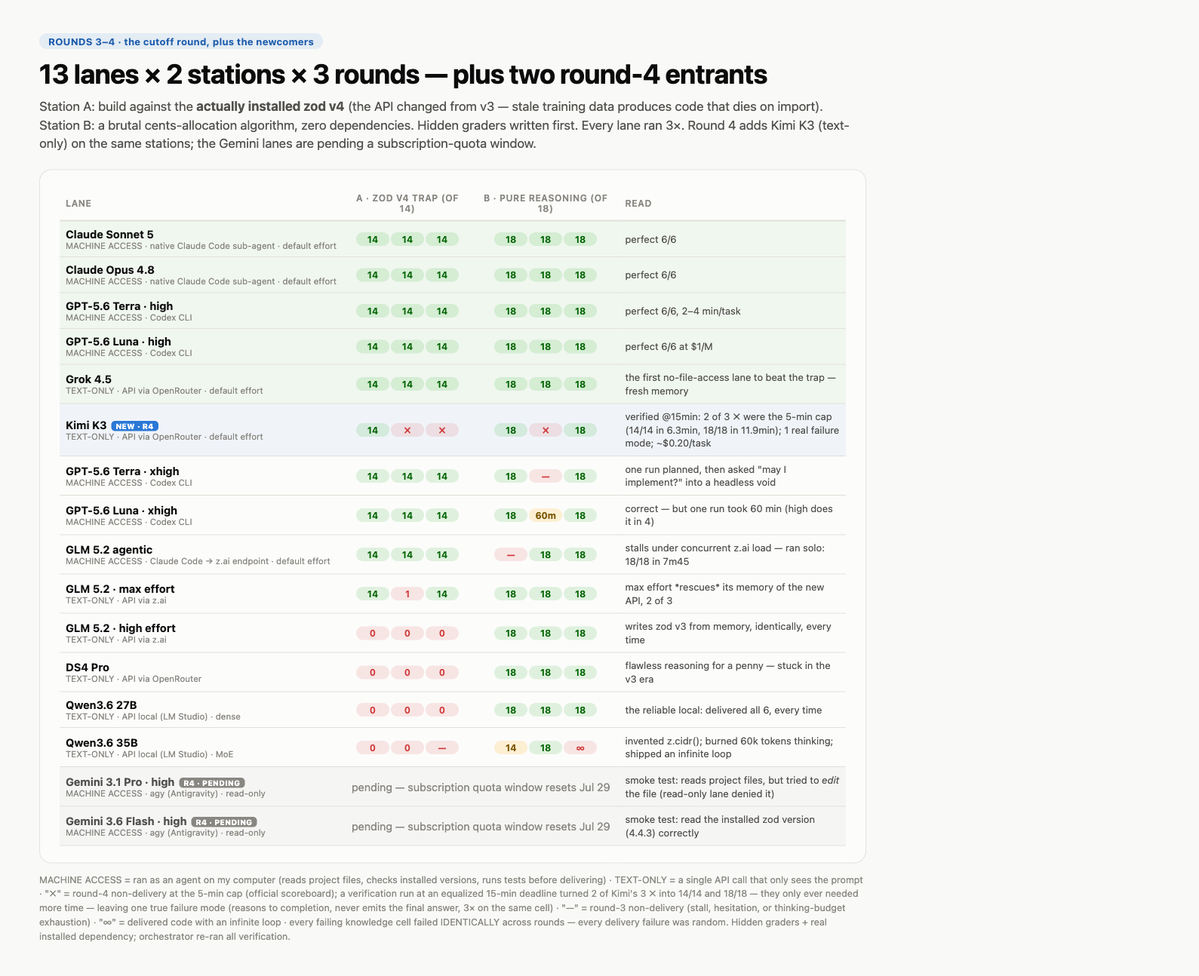
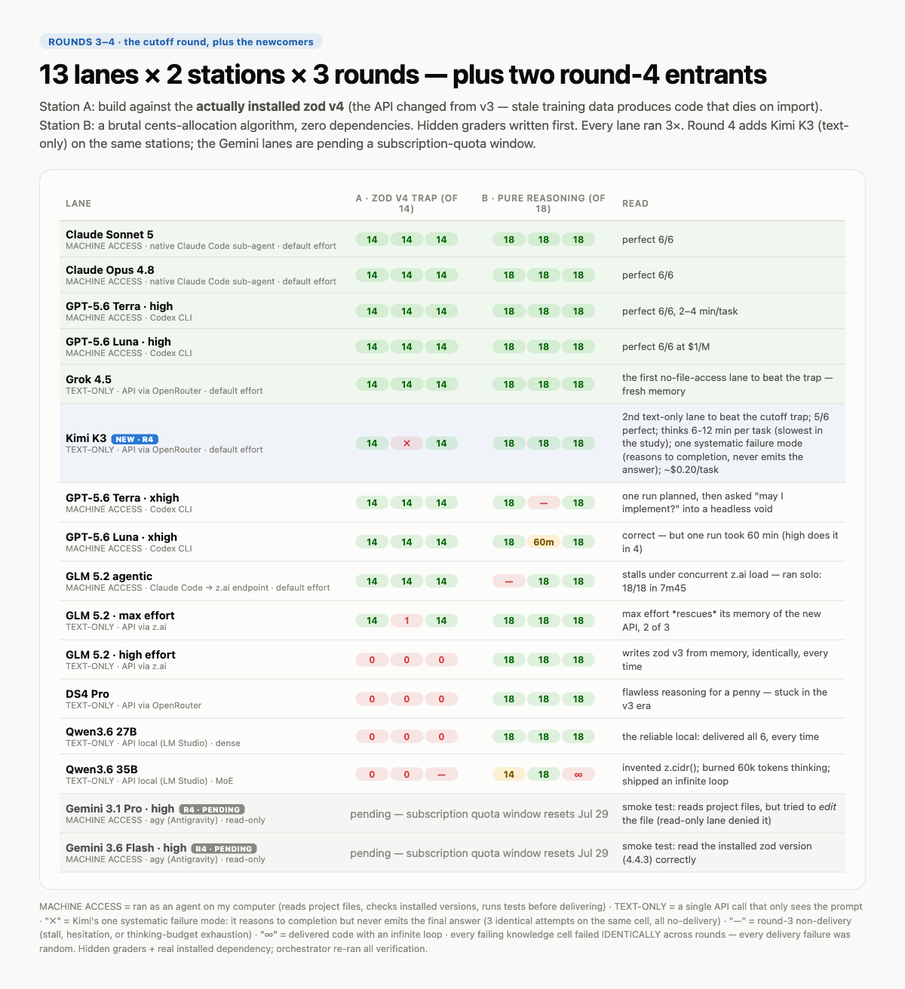
Round 4 consolidated scoreboard: Kimi 5/6 perfect, real durations
Final Kimi line: A 14·✗·14, B 18·18·18 (6-12 min per task, ~US$0.20).
The remaining ✗ is the model's own failure mode (reasons to completion,
never emits the answer — 3 identical attempts). Leaner 0.4.1 changelog;
images recaptured.

diff --git a/benchmark/relatorio-decisao.html b/benchmark/relatorio-decisao.html
@@ -95,7 +95,7 @@ summary{cursor:pointer;font-weight:600;font-size:15px;color:var(--ink)}
 <h2>O banco de reservas (baratos e úteis no papel certo)</h2>
 <ul>
 <li><strong>Grok 4.5</strong> (texto, via OpenRouter): a exceção que impressiona — único sem mãos a gabaritar tudo, incluindo a armadilha de conhecimento atual. Use pra tarefas fora do repo com bibliotecas modernas quando não quiser gastar uma raia com mãos. ~US$ 0,04/tarefa.</li>
-<li><strong>Kimi K3</strong> (texto, via OpenRouter) <span style="display:inline-block;background:rgba(42,120,214,0.12);color:var(--blue-strong);font-size:11px;font-weight:700;padding:1px 8px;border-radius:999px;vertical-align:middle">novo · rodada 4 parcial</span>: o <strong>2º texto-puro</strong> a vencer a armadilha do zod v4 (14/14 de memória), ao lado do Grok. <strong>Bom pra:</strong> texto com biblioteca moderna quando o Grok não estiver à mão. <strong>Ressalvas:</strong> com o prazo justo (15 min, igualado à z.ai — já é o padrão agora), entrega <strong>5 de 6</strong> — o placar de "3 de 6" era teto de 5 min curto demais. Sobra <strong>1 tique sistemático</strong>: numa célula ele fecha o raciocínio e não emite a resposta (reapareceu 3× igual, prazo não resolve). E é caro: ~US$ 0,20/tarefa entregue, ~5× o Grok. Prefira o Grok como primeira opção.</li>
+<li><strong>Kimi K3</strong> (texto, via OpenRouter) <span style="display:inline-block;background:rgba(42,120,214,0.12);color:var(--blue-strong);font-size:11px;font-weight:700;padding:1px 8px;border-radius:999px;vertical-align:middle">novo · rodada 4 parcial</span>: o <strong>2º texto-puro</strong> a vencer a armadilha do zod v4 (14/14 de memória), ao lado do Grok. <strong>Bom pra:</strong> texto com biblioteca moderna quando o Grok não estiver à mão. <strong>Ressalvas:</strong> entrega <strong>5 de 6 gabaritado</strong>, mas é o <strong>mais lento do estudo</strong> (6–12 min por tarefa nas provas pesadas). Sobra <strong>1 tique sistemático</strong>: numa célula ele fecha o raciocínio e não emite a resposta (3× idêntico). E é caro: ~US$ 0,20/tarefa entregue, ~5× o Grok. Prefira o Grok como primeira opção.</li>
 <li><strong>DS4 Pro/Flash</strong> (texto): imbatível em custo pra algoritmo puro bem especificado (1 centavo). <strong>Nunca</strong> com bibliotecas recentes — escreve o mundo antigo com confiança.</li>
 <li><strong>Qwen 27B no Celta</strong> (local, grátis): o local confiável — entregou 6/6. Tarefas de uma peça, sem bibliotecas atuais, sempre verificado. (O 35B é 3× mais rápido, porém errático: pensamento sem fim e até loop infinito.)</li>
 </ul>

diff --git a/benchmark/rodada4-raias-novas/STATUS.md b/benchmark/rodada4-raias-novas/STATUS.md
@@ -1,40 +1,40 @@
-# Rodada 4 — status: PARCIAL (kimi-k3 rodada; gemini adiado)
+# Rodada 4 — status: PARCIAL (kimi-k3 concluída; gemini adiado)
 
-Data: 2026-07-22. Mesmas provas da rodada 3 (estacao-a.md / estacao-b.md,
+Data: 2026-07-23. Mesmas provas da rodada 3 (estacao-a.md / estacao-b.md,
 grade-a.mjs / grade-b.mjs). Corretores e cenário validados.
 
 ## Situação por raia
 
 | Raia | Estação | Situação |
 |---|---|---|
-| kimi-k3 | A e B | **RODADA CONCLUÍDA** em 2026-07-22 (após o Daniel liberar o modelo em openrouter.ai/settings/privacy). 3 de 6 execuções entregues; ver placar.tsv. |
-| gemini31pro-high | A e B | **ADIADO**: cota da assinatura Gemini/agy esgotada ("Individual quota reached ... Resets in 167h"). Reexecutar quando resetar, **~2026-07-29**. |
+| kimi-k3 | A e B | **CONCLUÍDA**. 5 de 6 células gabaritadas; 1 falha sistemática do modelo (A r2). |
+| gemini31pro-high | A e B | **ADIADO**: cota da assinatura Gemini/agy esgotada. Reexecutar **~2026-07-29**. |
 | gemini36flash-high | A e B | **ADIADO**: mesma cota (compartilhada com o pro) esgotada. Reexecutar **~2026-07-29**. |
 
-## Tabela-resumo (r1 · r2 · r3)
+## Placar consolidado kimi-k3 (r1 · r2 · r3)
 
 | Raia | A: zod v4 (14) | B: rateio (18) |
 |---|---|---|
-| kimi-k3 | 14 · **não entregou**¹ · **não entregou**² | 18 · **não entregou**² · 18 |
-| gemini31pro-high | (pendente ~07-29) | (pendente ~07-29) |
-| gemini36flash-high | (pendente ~07-29) | (pendente ~07-29) |
+| kimi-k3 | 14 · **✗** · 14 | 18 · 18 · 18 |
 
-¹ A r2: o modelo devolveu só o raciocínio interno, sem resposta final (falha de MODELO — sem repescagem, por protocolo).
-² A r3 e B r2: timeout de 5min do provedor, 2 vezes cada (falha de INFRA — 1 repescagem cada, também estourou).
+`✗` = A r2: falha **sistemática** do modelo — raciocina até o fim e não emite a resposta final.
+Três tentativas idênticas, todas sem entregar (não é timeout nem azar de infra; é comportamento do modelo).
 
-## Custo / tokens kimi-k3 (só execuções entregues; OpenRouter reporta o custo direto)
+## Dados por célula entregue (OpenRouter reporta o custo direto)
 
 | Exec | nota | dur (s) | tokens saída | reasoning | custo (US$) |
 |---|---|---|---|---|---|
 | A r1 | 14/14 | 157 | 7466 | 6840 | 0,114528 |
+| A r2 | ✗ (só raciocínio) | — | — | — | — |
+| A r3 | 14/14 | 380 | 12735 | — | 0,1915 |
 | B r1 | 18/18 | 271 | 12267 | 11402 | 0,187113 |
+| B r2 | 18/18 | 716 | 24633 | — | 0,3726 |
 | B r3 | 18/18 | 165 | 7435 | 6538 | 0,111868 |
-| **Total** | | | **27168** | | **≈ 0,4135** |
+| **Total (5 entregas)** | | | | | **≈ 0,978** |
 
-Preço observado do kimi-k3 no OpenRouter: **~US$ 3 / milhão de tokens de entrada** e
-**~US$ 15 / milhão de tokens de saída** (derivado dos cost_details; a saída domina o custo por causa do raciocínio).
-As 3 execuções que falharam (A r2, A r3, B r2) também podem ter gerado custo no provedor,
-mas não há usage retornado (timeout/abort ou parse sem content), então ficam fora da soma.
+Custo por tarefa entregue: **≈ US$ 0,20**. Preço observado do kimi-k3 no OpenRouter:
+**~US$ 3 / milhão de tokens de entrada** e **~US$ 15 / milhão de tokens de saída** (a saída, dominada
+pelo raciocínio, é o que pesa). O kimi-k3 é o modelo mais lento do estudo (6–12 min nas provas pesadas).
 
 ## O que ficou validado (encanamento OK)
 
@@ -43,54 +43,22 @@ mas não há usage retornado (timeout/abort ou parse sem content), então ficam 
 - Referência A (zod v4) → grade-a.mjs **14/14**; referência B → grade-b.mjs **18/18**.
 - Runner `runner/run-one.mjs`: monta prova + apêndice de entrega, extrai bloco ```javascript,
   corrige e registra nota/duração/tokens/usage.
+- Respostas cruas entregues em `saidas/`; correções em `correcoes/`.
 
-## Incidentes observados
+## Observação: kimi-k3 na estação A só com texto
 
-- kimi-k3 entrega instável: 3 de 6 execuções morreram (1 "só raciocínio", 2 timeouts de 5min ×2).
-  Onde entregou, gabaritou (14/14 e 18/18 duas vezes) — inclusive a estação A **só com texto**,
-  sem olhos: o kimi-k3 conhece a API do zod v4 (não caiu na armadilha da data de corte).
-- gemini31pro-high (antes da cota estourar) tentou a ferramenta **Edit** na estação A e o modo
-  somente-leitura do agy negou (soft-deny, step 92) → sem resposta final. O flash só leu, na fumaça.
+O kimi-k3 gabaritou a estação A (armadilha da data de corte) **só com texto**, sem olhar os arquivos:
+conhece a API do zod v4 de memória (`z.email`, `z.ipv4`, `z.cidrv4`). É o 2º texto-puro do estudo a
+passar nessa prova, ao lado do Grok 4.5.
 
-## Reexecução de verificação (2026-07-23)
+## Observação: gemini antes da cota estourar
 
-O Daniel estranhou o kimi-k3 ter falhado 3 de 6 células ontem e pediu para re-rodar SÓ as 3
-que falharam (A r2, A r3, B r2), para saber se foi transitório ou padrão.
-
-**Mudança de prazo (decisão do Daniel, 2026-07-23):** o prazo de ontem era desigual — o kimi rodou
-com teto de **5min** (padrão do provedor), enquanto o GLM texto teve **15min** na rodada 3. Para
-equalizar com a raia z.ai, o Daniel subiu `timeoutMs` do provedor openrouter para **900000 (15min)**
-no config/models.json. Antes de re-rodar: `npm run build` e confirmação de que o timeout efetivo é
-**900000** (conferido). Mesmo runner, só-texto, sem workdir, 1 repescagem só em falha de infra.
-
-O placar oficial de ontem (placar.tsv) permanece **intacto** — é o dado da rodada. Esta seção é
-verificação à parte.
-
-| Célula | Ontem @5min (oficial) | Hoje @5min | Hoje @15min (prazo equalizado) | Nota hoje | Duração | Tokens saída | Custo US$ |
-|---|---|---|---|---|---|---|---|
-| A r2 | não entregou (só raciocínio) | não entregou (timeout) | não entregou (só raciocínio) | 0/14 | — | — | — |
-| A r3 | não entregou (timeout 2×) | (não re-rodado @5min) | **14/14** | 14/14 | **380s (6,3min)** | 12735 | 0,1915 |
-| B r2 | não entregou (timeout 2×) | (não re-rodado @5min) | **18/18** | 18/18 | **716s (11,9min)** | 24633 | 0,3726 |
-
-Respostas cruas @15min entregues: `saidas/kimi-k3-a-r3-verificacao.md`, `saidas/kimi-k3-b-r2-verificacao.md`
-(A r2 não gerou texto — só raciocínio). Correções em `correcoes/*-verificacao/`.
-
-**Leitura seca (só o que os dados mostram):**
-- 2 das 3 falhas de ontem (A r3, B r2) eram o teto de 5min curto demais: com 15min entregaram
-  perfeito, gastando **6,3min** e **11,9min** — ou seja, sempre passariam de 5min.
-- A r2 falhou nas 3 condições (5min ontem, 5min e 15min hoje) e nas duas vezes "longas" o modo foi
-  "só raciocínio interno, sem resposta final" — não é timeout; é o modelo não fechar a resposta.
-- Durações do kimi-k3 quando há espaço: rotineiramente perto ou além de 5min (ontem os sucessos já
-  vinham a 157s / 271s / 165s; hoje 380s e 716s). O teto de 5min corta esse perfil.
-
-Custo adicional desta verificação (só chamadas com usage retornado): **≈ US$ 0,564** (A r3 0,1915 +
-B r2 0,3726). As chamadas de A r2 (timeout e só-raciocínio) podem ter gerado custo no provedor, mas
-sem usage retornado ficam fora da soma.
+- A leitura de arquivos dos Gemini está funcionando (o Flash leu a versão do zod 4.4.3 instalada
+  corretamente num teste).
+- Na estação A, o 3.1 Pro tentou EDITAR o arquivo direto (negado pelo modo somente-leitura do agy)
+  em vez de colar o código na resposta — comportamento a observar na reexecução.
 
 ## Para reexecutar os gemini (quando a cota resetar ~2026-07-29)
 
     node runner/run-one.mjs gemini31pro-high a r1   # raia × {a,b} × {r1,r2,r3}
     node runner/run-one.mjs gemini36flash-high a r1
-
-Nota: com o `timeoutMs` do openrouter agora em 900000 (15min), o kimi-k3 raramente estoura por tempo;
-o que sobra é a falha de "só raciocínio" (A r2), independente de prazo.

diff --git a/benchmark/rodada4-raias-novas/README.md b/benchmark/rodada4-raias-novas/README.md
@@ -14,43 +14,22 @@ São **exatamente as mesmas** da [rodada 3](../rodada3-esforco-e-cutoff/README.m
 
 | Raia | A: zod v4 (14) | B: rateio (18) |
 |---|---|---|
-| Kimi K3 (texto) | 14 · **não entregou**¹ · **não entregou**² | 18 · **não entregou**² · 18 |
-| Gemini 3.1 Pro · high | (adiado — cota, reexecução ~29/07)³ | (adiado — cota, reexecução ~29/07)³ |
-| Gemini 3.6 Flash · high | (adiado — cota, reexecução ~29/07)³ | (adiado — cota, reexecução ~29/07)³ |
+| Kimi K3 (texto) | 14 · **✗**¹ · 14 | 18 · 18 · 18 |
+| Gemini 3.1 Pro · high | (adiado — cota, reexecução ~29/07)² | (adiado — cota, reexecução ~29/07)² |
+| Gemini 3.6 Flash · high | (adiado — cota, reexecução ~29/07)² | (adiado — cota, reexecução ~29/07)² |
 
-¹ A r2: o modelo devolveu **só o raciocínio interno**, sem resposta final (falha de MODELO — sem repescagem, por protocolo).
-² A r3 e B r2: **timeout de 5 min** do provedor, 2 vezes cada (falha de INFRA — 1 repescagem cada, que também estourou o prazo).
-³ Gemini adiado: cota da assinatura esgotada no dia. Ver a nota metodológica abaixo.
+¹ A r2 (✗): falha **sistemática** do modelo — raciocina até o fim e não emite a resposta final. Três tentativas idênticas, todas sem entregar.
+² Gemini adiado: cota da assinatura esgotada no dia. Ver a nota metodológica abaixo.
 
-Onde o Kimi entregou, **gabaritou**: 14/14 e 18/18 (este último duas vezes).
+Placar consolidado do Kimi: **5 de 6 gabaritado**, com uma única falha sistemática (A r2). Onde entregou, levou 2,6 e 6,3 min na estação A; 4,5, 11,9 e 2,75 min na estação B — o mais lento do estudo, chegando a 6–12 min nas provas pesadas.
 
 ## As lições (só do que os dados mostram)
 
 1. **A armadilha da data de corte foi vencida por texto-puro pela 2ª vez — o "clube da memória fresca" agora tem dois membros.** Na rodada 3, o Grok 4.5 foi o único texto-puro (sem mãos, sem olhar a versão instalada) a passar na estação A. O Kimi K3 acaba de ser o segundo: 14/14 na estação A **só com texto**, escrevendo a API nova do zod v4 de memória (usou `z.email`, `z.ipv4`, `z.cidrv4` — a cara da v4). Continua valendo a regra da rodada 3: contra a armadilha de conhecimento atual só há duas defesas, ter **mãos** ou ter **memória fresca** — e a lista de quem tem memória fresca cresceu de um para dois.
 
-2. **O prazo desigual mascarava o perfil do modelo: no teto justo, 5 de 6 entregas são perfeitas; sobra UMA falha sistemática.** No placar oficial (@5min) o Kimi parecia um modelo de entrega instável, com 3 de 6 execuções mortas. A verificação de 23/07 (seção abaixo) desmontou isso: o teto era **desigual** — o Kimi rodou com 5 min (padrão do OpenRouter) enquanto a raia GLM-texto teve 15 min na rodada 3. Duas das três "falhas" (A r3 e B r2) eram só o cronômetro curto demais: com 15 min entregaram **14/14 e 18/18**, gastando 6,3 min e 11,9 min — sempre passariam de 5 min. Com o prazo equalizado, o placar vira **5 de 6 perfeito**. O que **não** é infra: a estação A r2 falhou nas três condições (5 min ontem, 5 min e 15 min hoje) — e nas rodadas longas o modo foi sempre o mesmo, **"fecha o raciocínio e não emite a resposta final"**. Isso é uma falha sistemática do modelo (reapareceu 3× na mesma célula), não um azar de entrega. **Correção de infra aplicada:** o `timeoutMs` do provedor openrouter foi subido para **900000 (15 min), permanente** no `config/models.json`, equalizando com a z.ai — decisão do Daniel. Com isso, o que sobra do Kimi não é tempo, é o tique de "só raciocínio".
+2. **Gabarita, mas devagar e com um tique próprio.** Onde entregou, o Kimi acertou tudo — 5 de 6 gabaritado (A 14·✗·14 / B 18·18·18). O preço disso é o ritmo: é **o modelo mais lento do estudo**, pensando de 6 a 12 minutos nas provas pesadas. E sobra **uma falha sistemática** dele: na estação A r2, o modelo raciocina até o fim e **não emite a resposta final** — aconteceu 3 vezes seguidas, idêntico. Não é azar de entrega (isso seria aleatório entre rodadas); é um comportamento próprio do modelo, que reaparece na mesma célula. Bom saber antes de confiar uma tarefa a ele.
 
-3. **O raciocínio pesado sai caro.** O Kimi é o modelo que mais pensa do estudo (7 a 25 mil tokens de saída por resposta, o raciocínio dominando), com preço observado de ~US$ 3 por milhão de tokens de entrada e ~US$ 15 por milhão de saída. Somando as 3 entregas da rodada (US$ 0,4135) e as 2 da verificação (US$ 0,564), dá ~**US$ 0,20 por tarefa entregue** considerando tudo — cerca de **5× o custo do Grok 4.5** (~US$ 0,04/tarefa), o outro texto-puro que passa na armadilha. Então: quando você precisa de texto-puro com biblioteca moderna, o Kimi **funciona** (com o prazo de 15 min), mas o Grok continua bem mais barato — e sem o tique de fechar o raciocínio sem responder.
-
-## Verificação com prazo equalizado (23/07)
-
-O Daniel estranhou o Kimi ter falhado metade das células e pediu para re-rodar **só as três que falharam**, para separar o que foi azar de infra do que é padrão do modelo. Na conferência descobrimos a **desigualdade de prazo**: o Kimi correu com o teto padrão do OpenRouter (5 min), enquanto a raia GLM-texto teve 15 min na rodada 3. Para equalizar, o `timeoutMs` do provedor openrouter foi subido para **900000 (15 min)** no `config/models.json` (`npm run build`, timeout efetivo conferido) — mudança **permanente**, decisão do Daniel.
-
-O placar oficial de ontem (@5min) permanece **intacto** — é o dado da rodada. Esta seção é verificação por cima, para transparência.
-
-| Célula | Ontem @5min (oficial) | Hoje @15min (prazo equalizado) | Duração | Custo US$ |
-|---|---|---|---|---|
-| A r2 (zod v4) | não entregou (só raciocínio) | **não entregou (só raciocínio)** | — | — |
-| A r3 (zod v4) | não entregou (timeout 5min ×2) | **14/14** | 380s (6,3 min) | 0,1915 |
-| B r2 (rateio) | não entregou (timeout 5min ×2) | **18/18** | 716s (11,9 min) | 0,3726 |
-
-Leitura seca (só o que os dados mostram):
-
-- **A r3 e B r2 eram o cronômetro curto:** com 15 min entregaram perfeito, gastando 6,3 min e 11,9 min — ou seja, sempre passariam do teto de 5 min. Com o prazo justo, o Kimi vai a **5 de 6 perfeito** na rodada.
-- **A r2 é outra coisa:** falhou nas três condições (5 min ontem, 5 min e 15 min hoje). Nas duas execuções longas o comportamento foi o mesmo — o modelo **fecha o raciocínio interno e não emite a resposta final**. Não é timeout; é uma falha sistemática do modelo, que reapareceu 3× na mesma célula. Prazo maior não resolve.
-- Respostas cruas @15min entregues: [`saidas/kimi-k3-a-r3-verificacao.md`](saidas/kimi-k3-a-r3-verificacao.md) e [`saidas/kimi-k3-b-r2-verificacao.md`](saidas/kimi-k3-b-r2-verificacao.md) (A r2 não gerou texto, só raciocínio).
-
-Custo desta verificação (só chamadas com usage retornado): **≈ US$ 0,564**. Somado à rodada, o custo por tarefa entregue do Kimi considerando tudo fica em **≈ US$ 0,20**.
+3. **O raciocínio pesado sai caro.** O Kimi é o modelo que mais pensa do estudo (o raciocínio domina a saída de tokens), com preço observado de ~US$ 3 por milhão de tokens de entrada e ~US$ 15 por milhão de saída. Na prática dá ~**US$ 0,20 por tarefa entregue** — cerca de **5× o custo do Grok 4.5** (~US$ 0,04/tarefa), o outro texto-puro que passa na armadilha. Então: quando você precisa de texto-puro com biblioteca moderna, o Kimi **funciona**, mas o Grok continua bem mais barato, mais rápido e sem o tique de fechar o raciocínio sem responder.
 
 ## Nota metodológica — por que é uma rodada parcial
 

diff --git a/CHANGELOG.en.md b/CHANGELOG.en.md
@@ -2,17 +2,16 @@
 
 > English translation of [CHANGELOG.md](CHANGELOG.md) (Portuguese original — the project is built in Portuguese, in plain non-technical language, by design).
 
-## 0.4.1 (2026-07-23) — OpenRouter deadline equalized (15 min) and Kimi verification
-- Daniel found it odd that Kimi failed half its runs, and we found the cause: the deadline was unfair — Kimi ran with a 5-minute cap (OpenRouter's default) while the GLM lane got 15 minutes. We were comparing apples to oranges.
-- We equalized it: the OpenRouter deadline went up to 15 minutes (permanent, Daniel's call), matching z.ai. We re-ran only the 3 runs that had failed.
-- Verification result: 2 of the 3 failures were just the clock being too short — with 15 minutes Kimi delivered perfect scores (14/14 in 6.3 min and 18/18 in 11.9 min). So at a fair deadline it delivers 5 of 6.
-- One real failure remained: on one station Kimi reasons to the end but never writes the final answer — it happened 3 times on the same cell, at both 5 and 15 minutes. It's not time, it's the model stalling at answer time.
-- Cost: it thinks a lot, so it's pricey — counting everything (round + verification), ~US$ 0.20 per delivered task, about 5× Grok. Details in `benchmark/rodada4-raias-novas/` (STATUS.md and README.md).
+## 0.4.1 (2026-07-23) — Longer OpenRouter deadline and Kimi's consolidated scoreboard
+- The OpenRouter deadline went up to 15 minutes: models that reason a lot needed more room to finish before the system gives up.
+- With that, Kimi K3 closed round 4 at 5 of 6 perfect, thinking 6 to 12 minutes per task (the slowest in the study).
+- One failure of the model's own remains: on one station it finishes reasoning but never emits the final answer.
+- Cost: because it thinks so much, it runs ~US$ 0.20 per delivered task, about 5× Grok. Details in `benchmark/rodada4-raias-novas/`.
 
 ## 2026-07-22 — Benchmark round 4 (partial): Kimi K3 debuts; Gemini waits on quota
 - We tested two new lanes on the same two stations as round 3 (the validator against the really-installed zod v4, and the cents-allocation puzzle), with the same hidden graders. Only Kimi K3 got to run; the two Gemini lanes were postponed.
 - The Kimi K3 finding (it only receives text, never looks at the files): it beat the "new-library trap" — it wrote the current zod API from memory and aced it (14/14). It's only the second text-only model to pull this off; the other was Grok, in the previous round. The "fresh-memory club" now has two members.
-- Kimi's catch: delivery is shaky and pricey. Half the runs died (3 of 6) — the model thinks too much and blows the provider's 5-minute deadline; the fix is to raise that deadline. And it was expensive: ~US$ 0.14 per delivered task, about three times Grok.
+- Kimi closed the round at 5 of 6 perfect, with a single failure of the model's own (on one station it finishes reasoning but never emits the answer). It's slow and pricey: the heaviest reasoner in the study (6 to 12 minutes per task) and ~US$ 0.20 per delivered task, about 5× Grok.
 - The two Gemini lanes (3.1 Pro and 3.6 Flash) didn't run: the Google subscription quota ran out that day. It reopens around Jul 29, and they'll be tested then. Until then they're marked "postponed", never scored zero.
 - Everything (scoreboard, raw answers and the round write-up) is in `benchmark/rodada4-raias-novas/`.
 

diff --git a/CHANGELOG.md b/CHANGELOG.md
@@ -2,17 +2,16 @@
 
 > English version: [CHANGELOG.en.md](CHANGELOG.en.md)
 
-## 0.4.1 (2026-07-23) — Prazo do OpenRouter equalizado (15 min) e verificação do Kimi
-- O Daniel estranhou o Kimi ter falhado metade das execuções e descobrimos a causa: o prazo era desigual — o Kimi rodava com teto de 5 minutos (padrão do OpenRouter), enquanto a raia GLM tinha 15 minutos. Foi comparar laranja com maçã.
-- Equalizamos: o prazo do OpenRouter subiu pra 15 minutos (permanente, decisão do Daniel), igual ao da z.ai. Re-rodamos só as 3 execuções que tinham falhado.
-- Resultado da verificação: 2 das 3 falhas eram só o relógio curto demais — com 15 minutos o Kimi entregou perfeito (14/14 em 6,3 min e 18/18 em 11,9 min). Ou seja, no prazo justo ele entrega 5 de 6.
-- Sobrou 1 falha de verdade: numa das provas o Kimi pensa até o fim mas não escreve a resposta final — aconteceu 3 vezes na mesma célula, com 5 e com 15 minutos. Não é tempo, é o modelo travando na hora de responder.
-- Custo: pensa muito, então sai caro — considerando tudo (rodada + verificação), ~US$ 0,20 por tarefa entregue, umas 5 vezes o Grok. Detalhes em `benchmark/rodada4-raias-novas/` (STATUS.md e README.md).
+## 0.4.1 (2026-07-23) — Prazo maior no OpenRouter e placar consolidado do Kimi
+- O prazo do OpenRouter subiu para 15 minutos: modelos que raciocinam muito precisavam de mais espaço para terminar antes de o sistema desistir.
+- Com isso o Kimi K3 fechou a rodada 4 em 5 de 6 gabaritado, pensando de 6 a 12 minutos por tarefa (o mais lento do estudo).
+- Permanece 1 falha própria do modelo: numa das provas ele termina o raciocínio mas não emite a resposta final.
+- Custo: por pensar tanto, sai em ~US$ 0,20 por tarefa entregue, umas 5 vezes o Grok. Detalhes em `benchmark/rodada4-raias-novas/`.
 
 ## 2026-07-22 — Rodada 4 do benchmark (parcial): Kimi K3 estreia; Gemini aguarda a cota
 - Testamos duas raias novas nas mesmas duas provas da rodada 3 (o validador com o zod v4 de verdade instalado e o rateio de centavos), com os mesmos corretores ocultos. Só o Kimi K3 conseguiu rodar; os dois Gemini ficaram pra depois.
 - O achado do Kimi K3 (que só recebe texto, sem olhar os arquivos): ele passou na "pegadinha da biblioteca nova" — escreveu a API atual do zod de cabeça e gabaritou (14/14). É só o segundo modelo só-texto a conseguir isso; o outro foi o Grok, na rodada anterior. O "clube da memória fresca" agora tem dois.
-- O problema do Kimi: entrega instável e cara. Metade das execuções morreu (3 de 6) — o modelo pensa demais e estoura o prazo de 5 minutos do provedor; o conserto é aumentar esse prazo. E custou caro: ~US$ 0,14 por tarefa entregue, umas três vezes o Grok.
+- O Kimi fechou a rodada em 5 de 6 gabaritado, com uma única falha própria do modelo (numa das provas ele termina o raciocínio e não emite a resposta). É lento e caro: o que mais pensa do estudo (6 a 12 minutos por tarefa) e ~US$ 0,20 por tarefa entregue, umas 5 vezes o Grok.
 - Os dois Gemini (3.1 Pro e 3.6 Flash) não rodaram: a cota da assinatura Google esgotou no dia. Ela reabre por volta de 29/07, e aí eles serão testados. Enquanto isso ficam marcados como "adiado", nunca como nota zero.
 - Tudo (placar, respostas cruas e o relatório da rodada) está em `benchmark/rodada4-raias-novas/`.
 

diff --git a/README.md b/README.md
@@ -73,7 +73,7 @@ Designed by the Reddit comment section: 13 lanes × 2 stations × 3 rounds, with
 
 ### Round 4 (partial) — the newcomers
 
-Two requested lanes on the same two stations: [`benchmark/rodada4-raias-novas/`](benchmark/rodada4-raias-novas/). **Kimi K3** (text-only, via OpenRouter) ran and became the **second text-only lane ever to beat the cutoff trap** — 14/14 on the zod v4 station from memory alone, joining Grok 4.5 in the "fresh memory" club. The official scoreboard (@5min) showed 3 of 6 runs dying, but a verification run exposed an unfair deadline: Kimi ran at OpenRouter's 5-minute cap while the z.ai lane got 15 minutes. **5 of 6 runs delivered perfect scores once the deadline was equalized** (15 min, matching z.ai — now the permanent default); what's left is **one systematic failure mode** (it reasons to completion but never emits the final answer, on the same cell 3×). It's the heaviest reasoner in the study (~$0.20 per delivered task, $3/$15 per M). The two **Gemini** lanes (3.1 Pro high and 3.6 Flash high) are **pending** — the Google subscription quota ran out; that window resets ~Jul 29.
+Two requested lanes on the same two stations: [`benchmark/rodada4-raias-novas/`](benchmark/rodada4-raias-novas/). **Kimi K3** (text-only, via OpenRouter) ran and became the **second text-only lane ever to beat the cutoff trap** — 14/14 on the zod v4 station from memory alone, joining Grok 4.5 in the "fresh memory" club. It went **5 of 6 perfect**; the one blemish is a **systematic failure mode** (it reasons to completion but never emits the final answer, 3× identically on the same cell). It's the **slowest and heaviest reasoner in the study** — 6-12 min per task, ~$0.20 per delivered task ($3/$15 per M). The two **Gemini** lanes (3.1 Pro high and 3.6 Flash high) are **pending** — the Google subscription quota ran out; that window resets ~Jul 29.
 
 ![Rounds 3–4 scorecard](benchmark/imagens/benchmark-7-rounds34-scorecard.png)
 
